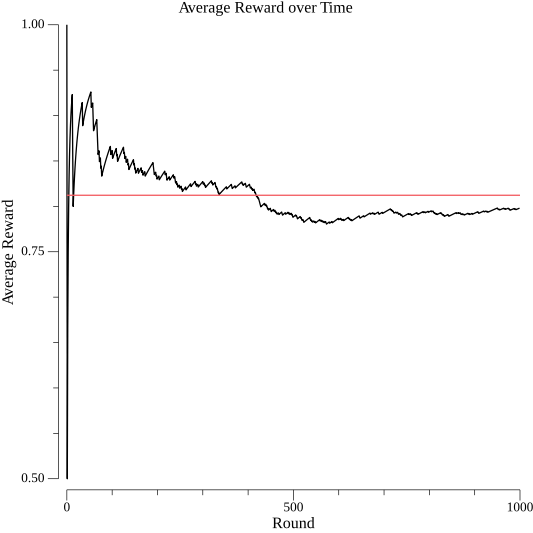
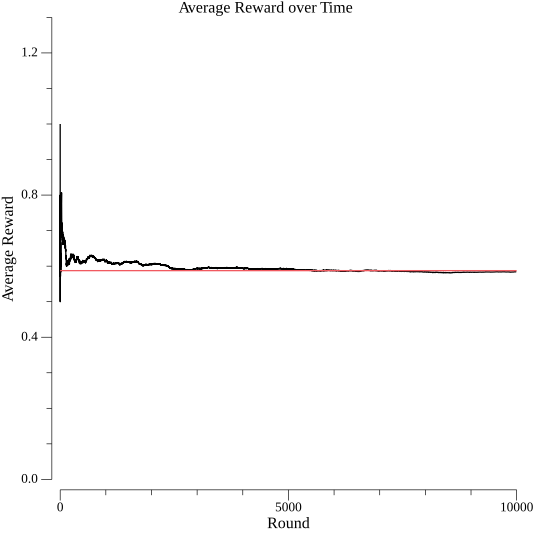
speed up stats calculations

diff --git a/lib/database/aggregator.go b/lib/database/aggregator.go
@@ -1,9 +1,13 @@
 package database
 
-import "github.com/leoffx/bandit-algorithms/lib/arm"
+import (
+	"github.com/leoffx/bandit-algorithms/lib/arm"
+)
 
 type DatabaseAggregator struct {
 	*Database
+	lastComputedRound int
+	armToStats        ArmToStats
 }
 
 type ArmStats struct {
@@ -25,33 +29,43 @@ func NewArmStats(count int, avgRewardWhenUsed float64) *ArmStats {
 func NewDatabaseAggregator() *DatabaseAggregator {
 	db := NewDatabase()
 	return &DatabaseAggregator{
-		Database: db,
+		Database:   db,
+		armToStats: make(ArmToStats),
 	}
 }
 
-func (db *DatabaseAggregator) ArmToStats() ArmToStats {
-	armToStats := make(ArmToStats)
+func (db *DatabaseAggregator) ArmToStats() *ArmToStats {
 	for _, entry := range db.Entries {
-		curr := armToStats[entry.ChosenArm]
-		if curr == nil {
-			curr = &ArmStats{}
-			armToStats[entry.ChosenArm] = curr
-		}
-		curr.count++
-		curr.AvgRewardWhenUsed = curr.AvgRewardWhenUsed + (entry.Reward-curr.AvgRewardWhenUsed)/float64(curr.count)
-
-		for arm, score := range *entry.ArmToScore {
-			curr = armToStats[arm]
-			if curr == nil {
-				curr = &ArmStats{}
-				armToStats[arm] = curr
-			}
-
-			// sum (score * reward) / sum (score)
-			dividend := curr.sumScoresWhenElligible + score
-			curr.AvgRewardWhenElligible = (curr.AvgRewardWhenElligible * curr.sumScoresWhenElligible / dividend) + (score * entry.Reward / dividend)
-			curr.sumScoresWhenElligible += score
+		if entry.Round >= db.lastComputedRound {
+			updateChosenArm(db.armToStats, entry)
+			updateAllArms(db.armToStats, entry)
+			db.lastComputedRound = entry.Round
 		}
 	}
-	return armToStats
+	return &db.armToStats
+}
+
+func updateChosenArm(armToStats ArmToStats, entry *Entry) {
+	curr := armToStats[entry.ChosenArm]
+	if curr == nil {
+		curr = &ArmStats{}
+		armToStats[entry.ChosenArm] = curr
+	}
+	curr.count++
+	curr.AvgRewardWhenUsed = curr.AvgRewardWhenUsed + (entry.Reward-curr.AvgRewardWhenUsed)/float64(curr.count)
+}
+
+func updateAllArms(armToStats ArmToStats, entry *Entry) {
+	for arm, score := range *entry.ArmToScore {
+		curr := armToStats[arm]
+		if curr == nil {
+			curr = &ArmStats{}
+			armToStats[arm] = curr
+		}
+
+		// sum (score * reward) / sum (score)
+		dividend := curr.sumScoresWhenElligible + score
+		curr.AvgRewardWhenElligible = (curr.AvgRewardWhenElligible * curr.sumScoresWhenElligible / dividend) + (score * entry.Reward / dividend)
+		curr.sumScoresWhenElligible += score
+	}
 }

diff --git a/cmd/vis/main.go b/cmd/vis/main.go
@@ -12,15 +12,14 @@ import (
 	"gonum.org/v1/plot/plotutil"
 )
 
-const numRounds = 1000
-const numArms = 3
+const numRounds = 10000
+const numArms = 10
 
 func main() {
-	strategy := strategy.NewEpsilonGreedy(0.3)
+	strategy := strategy.NewEpsilonGreedy(0.01)
 	// strategy := strategy.NewRecoveringDifferenceSoftmax(0.3,)
 	bandit, db := simulation.Run(numArms, numRounds, strategy)
 	createPlot(bandit, db)
-
 }
 
 func createPlot(bandit *bandit.Bandit, db *database.DatabaseAggregator) {
@@ -29,6 +28,8 @@ func createPlot(bandit *bandit.Bandit, db *database.DatabaseAggregator) {
 	p.Title.Text = "Average Reward over Time"
 	p.X.Label.Text = "Round"
 	p.Y.Label.Text = "Average Reward"
+	p.Y.Min = 0
+	p.Y.Max = 1.3
 
 	var bestArm arm.Arm
 	for _, arm := range bandit.Arms {

diff --git a/lib/simulation/run.go b/lib/simulation/run.go
@@ -15,14 +15,14 @@ func Run(numArms int, numRounds int, strategy strategy.Strategy) (*bandit.Bandit
 	for i := 0; i < numRounds; i++ {
 		eligibleArms := bandit.GetEligibleArms()
 		armToStats := db.ArmToStats()
-		armToScore := strategy.ScoreArms(eligibleArms, &armToStats)
+		armToScore := strategy.ScoreArms(eligibleArms, armToStats)
 		chosenArm := strategy.ChooseArm(armToScore)
 
 		reward := bandit.PullArm(chosenArm)
 		db.AddEntry(database.NewEntry(i, chosenArm, armToScore, reward))
 	}
 
-	fmt.Println("Database:\n", db)
+	// fmt.Println("Database:\n", db)
 	fmt.Println("Bandit:\n", bandit)
 	return bandit, db
 }
